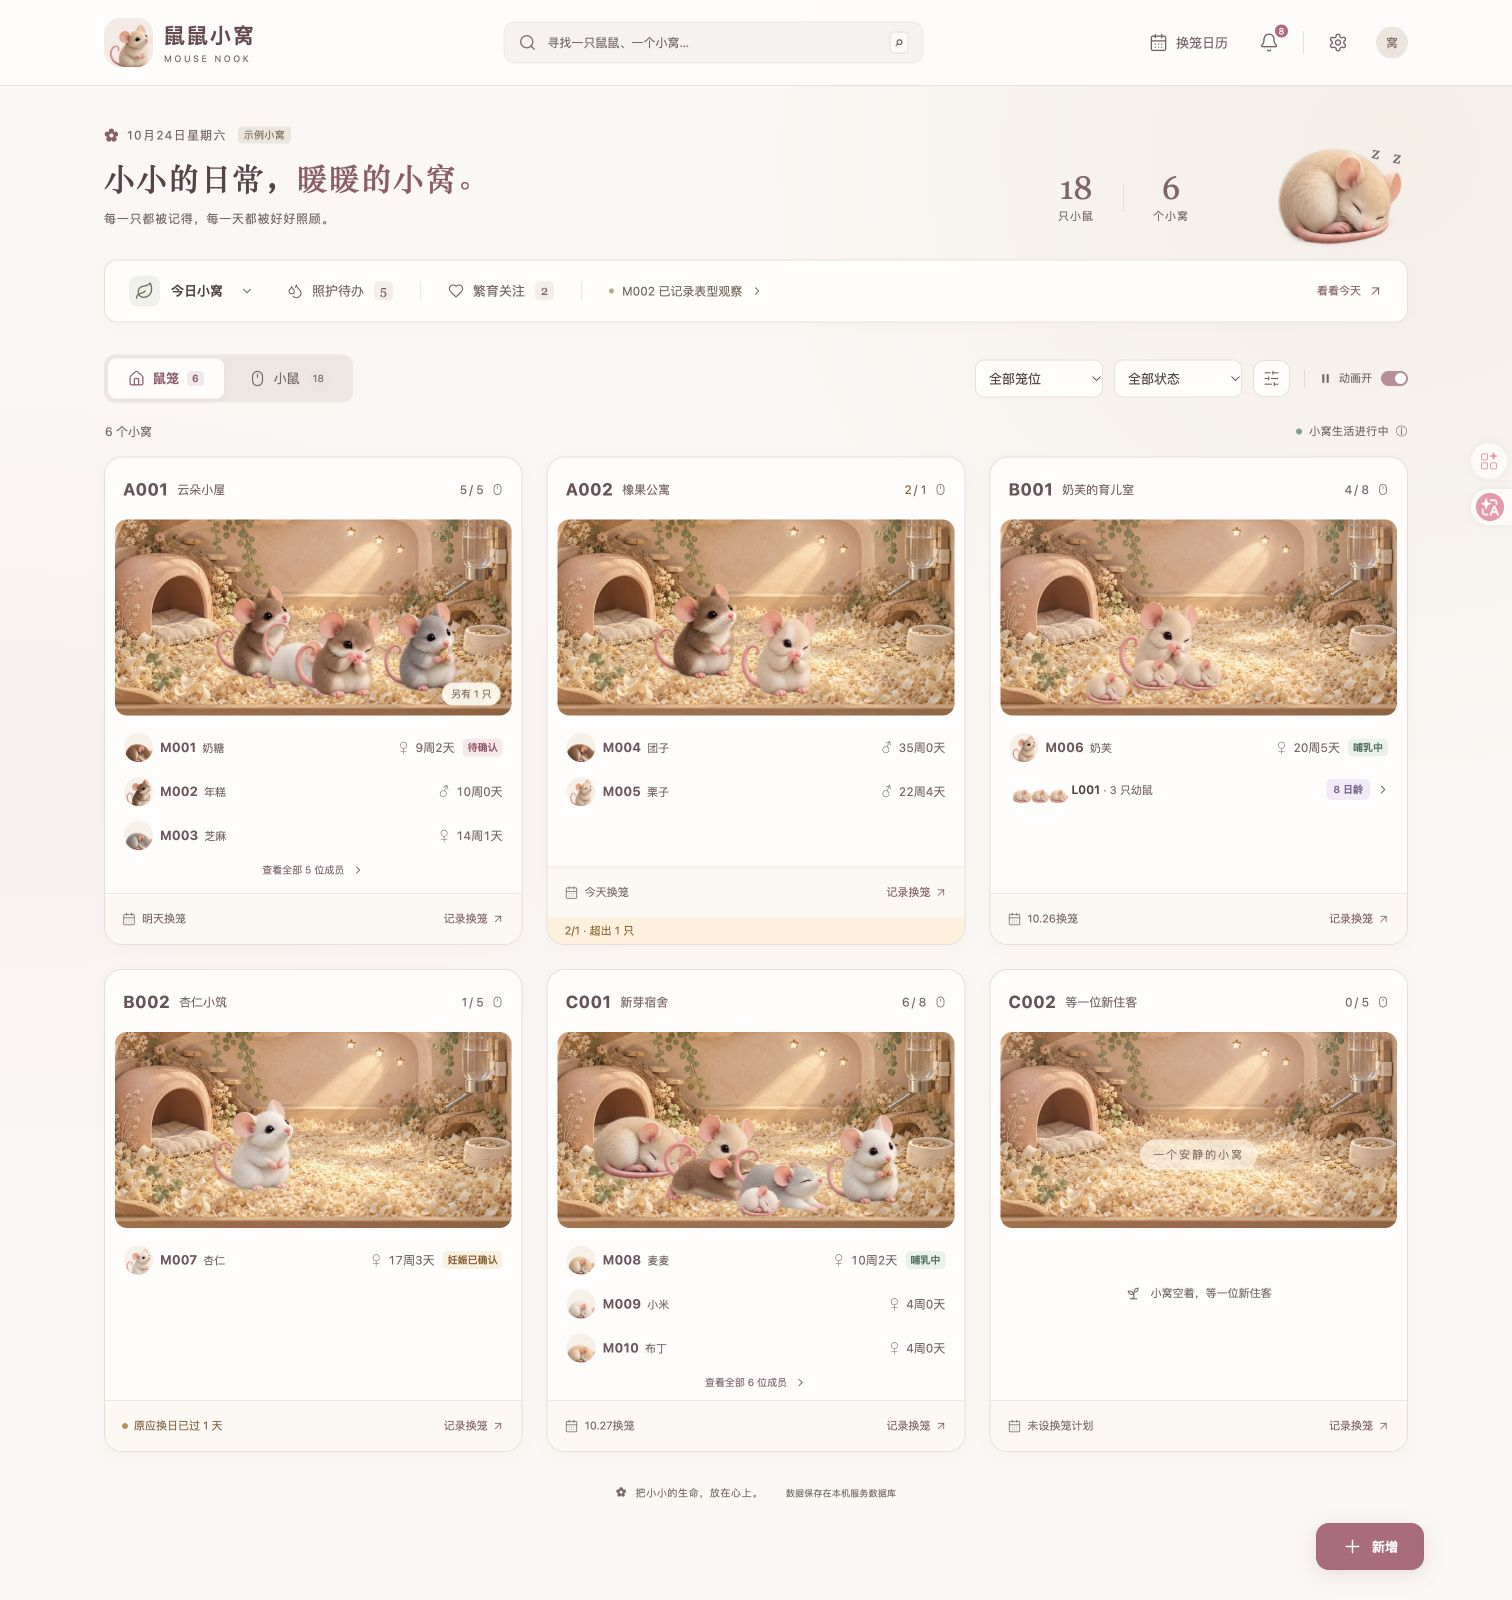
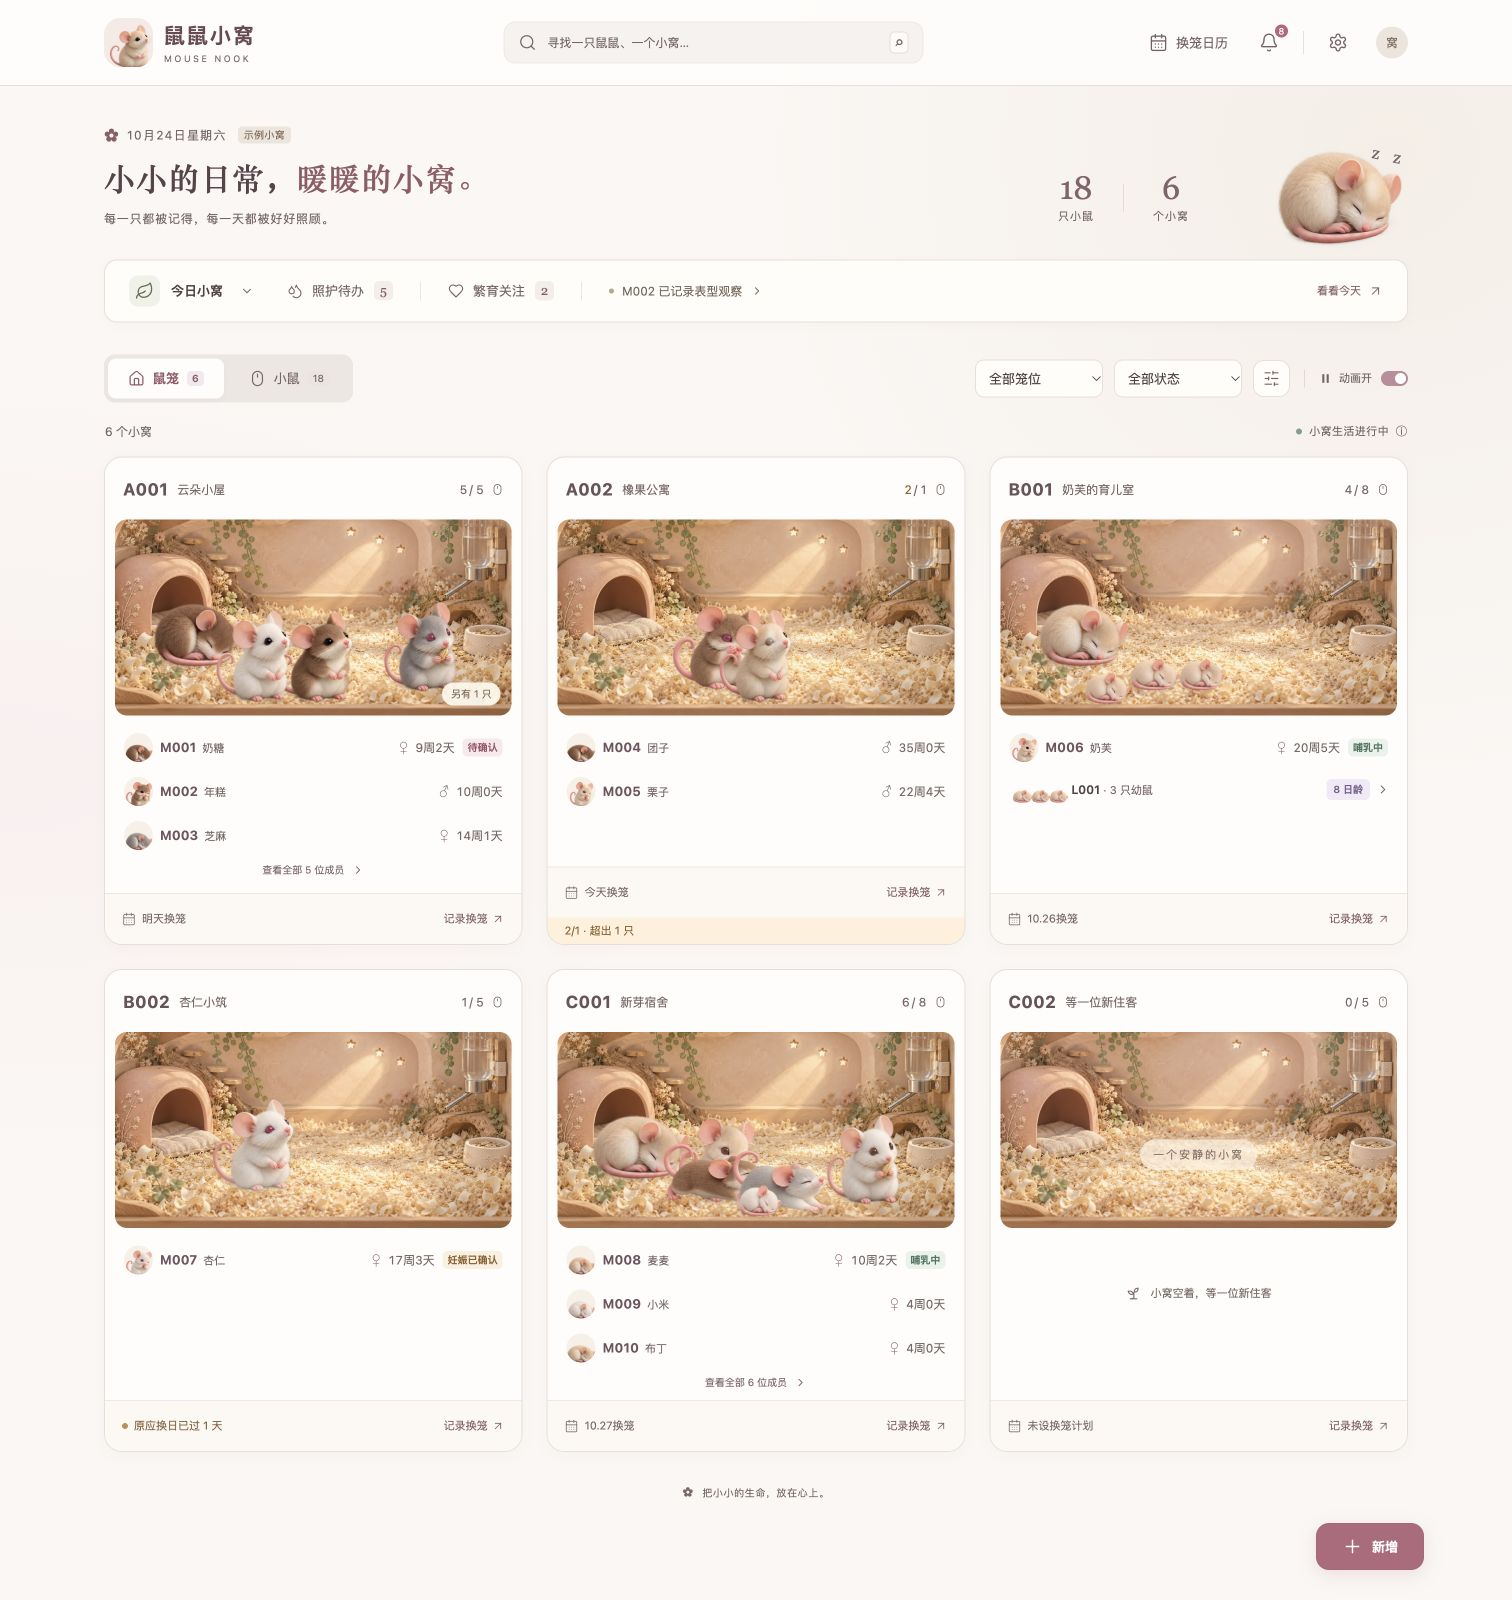
docs: record final visual-layer acceptance and scale measurements

diff --git a/docs/ACCEPTANCE.md b/docs/ACCEPTANCE.md
@@ -30,7 +30,7 @@
 
 大数据界面采用 12 笼 / 30 鼠分页，单笼最多 6 个可见角色（普通笼最多 4 个），最多 6 张场景同时运行；离屏、后台与减少动效模式暂停。未把浏览器工具截图耗时当作应用帧率。
 
-浏览器实测与原始数据见 [性能记录](PERFORMANCE.md)：20 / 100 与 200 / 1,000 两种规模分别完成 8 秒采样和 6 次搜索 / 切换；首次可操作为 382 / 419 ms，交互最高 62.5 / 97.8 ms。结果仅适用于记录的电脑、视口与回环网络。
+浏览器实测与原始数据见 [性能记录](PERFORMANCE.md)：20 / 100 与 200 / 1,000 两种规模分别完成 8 秒采样和 6 次搜索 / 切换；首次可操作为 382 / 260 ms，交互最高 62.5 / 126.2 ms。结果仅适用于记录的电脑、视口、浏览器缓存与回环网络。
 
 ## 本次补齐与复核
 
@@ -41,6 +41,7 @@
 - 全局暂停后 12 张场景均为静态，刷新后仍为静态；键盘可从成员行进入档案、打开照护并提交。新增家庭面板在 390 像素视口中，文档和抽屉宽度均为 390，无横向溢出。
 - 系统减少动效的源码与 CSS 降级已实现，但此次未更改用户系统偏好；不能把全局暂停实测写成系统偏好的真机实测。
 - 原图实际布局不等宽，旧网格分割带入邻格碎片并裁切耳朵。现按 alpha 连通轮廓重建全部 32 个精灵，每个产物仅有一个主要鼠鼠轮廓，并以内容版本号刷新缓存。[最新示例首页](assets/implemented-home-v2.jpg)。
+- 眼睛颜色改为仅叠加虹膜，耳朵用原图柔边遮罩独立放大；闭眼不添加瞳色，头部花纹跟随每个姿态的位置。浏览器实际切换红色眼睛和耳朵大小，毛色与体型保持：[圆耳](assets/appearance-ruby-round.jpg)、[大耳](assets/appearance-ruby-large.jpg)。这些为未提交候选，没有修改实际表型记录。
 - 生产空库上实际执行 `scripts/rollback.sh`：746f0e9 回退至 1025420，认证健康检查通过，再恢复 746f0e9 并通过检查。全过程笼 / 鼠记录数量保持 0，数据目录与凭据未替换。
 
 ## 生产与真机

diff --git a/docs/PERFORMANCE.md b/docs/PERFORMANCE.md
@@ -5,11 +5,11 @@
 | 数据规模 | 视口 / DPR | 首次可操作 | 6 次搜索 / 视图切换 | 8 秒 rAF 节奏 | 帧间隔 P95 | 最多活跃场景 |
 | --- | --- | ---: | ---: | ---: | ---: | ---: |
 | 20 笼 / 100 鼠 | 1512 × 861 / 2 | 382 ms | 14.7–62.5 ms | 107.3 次/秒 | 16.7 ms | 3 |
-| 200 笼 / 1,000 鼠 | 1512 × 1400 / 1 | 419 ms | 15.6–97.8 ms | 101.5 次/秒 | 16.8 ms | 6 |
+| 200 笼 / 1,000 鼠 | 1512 × 1400 / 1 | 260 ms | 17.0–126.2 ms | 76.6 次/秒 | 33.3 ms | 6 |
 
-原始读数：[20 笼](assets/performance-20.json)、[200 笼](assets/performance-200.json)。两组视口不同，不能直接用帧节奏差异比较性能回归。采样均未进入页面后台；最差单帧间隔分别为 41.5 / 82.8 ms，不能宣称没有掉帧。
+原始读数：[20 笼](assets/performance-20.json)、[200 笼](assets/performance-200.json)。20 笼是补齐过程的参考样本，200 笼为最终前端 `fe61d8d`（包含局部眼色、大耳和姿态花纹）复测。两组视口不同，不能直接用帧节奏差异比较性能回归。采样均未进入页面后台；最差单帧间隔分别为 41.5 / 150 ms，不能宣称没有掉帧。
 
-首次可操作时间从本次导航开始，包含 API 读取与首次 React 提交；交互记录为真实搜索 / 切换事件到第二个动画帧。动效读数是主线程 requestAnimationFrame 节奏，反映帧预算，不等同于 GPU 最终呈现帧率，也不代表 iPhone 或公网网络下的加载速度。
+首次可操作时间从本次导航开始，包含 API 读取与首次 React 提交；没有清空用户浏览器缓存，不能把它当作清缓存冷启动结果。交互记录为真实搜索 / 切换事件到第二个动画帧。动效读数是主线程 requestAnimationFrame 节奏，反映帧预算，不等同于 GPU 最终呈现帧率，也不代表 iPhone 或公网网络下的加载速度。
 
 实际验证：
 

diff --git a/docs/IMPLEMENTATION.md b/docs/IMPLEMENTATION.md
@@ -28,6 +28,6 @@
 
 ## 当前交付状态
 
-五个代码实现阶段均已提交，最终交付 4 体色 × 8 姿态的 32 个精灵文件；照护、繁育、家谱、日历与 PWA 后台队列已接通。26 项自动测试与生产构建通过，桌面和 390 像素手机视口已实际检查，VPS + HTTPS + 页面内密码登录 + 每日备份已验证。线上应用代码为 `746f0e9`，生产库保持空库。
+五个代码实现阶段均已提交，交付 4 体色 × 8 姿态的 32 个精灵文件、局部眼色与大耳图层和姿态花纹；照护、繁育、家谱、日历与 PWA 后台队列已接通。30 项自动测试与生产构建通过，桌面和 390 像素手机视口已实际检查，VPS + HTTPS + 页面内密码登录 + 每日备份及实际版本回退已验证。当前实现源码为 `fe61d8d`，生产发布状态见 `ACCEPTANCE.md`；生产库保持空库。
 
 完整真机通知验收仍待用户在 iPhone 主屏幕应用中授权并反馈，详见 `ACCEPTANCE.md`。
